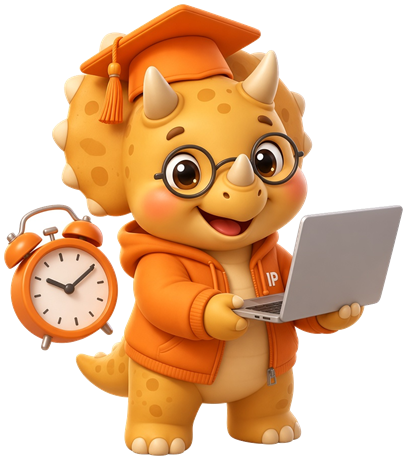
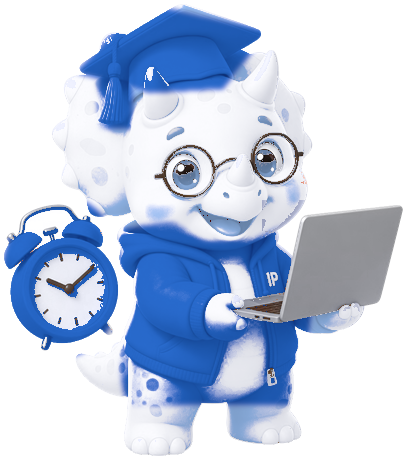
fix: mascot

diff --git a/src/styles/class.css b/src/styles/class.css
@@ -38,6 +38,7 @@
   background: var(--cls-850);
   border-bottom: 0;
   box-shadow: none;
+  -webkit-backdrop-filter: none;
   backdrop-filter: none;
 }
 
@@ -163,6 +164,7 @@
   height: 72%;
   background-image: radial-gradient(circle, rgba(255, 255, 255, 0.55) 1px, transparent 1.6px);
   background-size: 16px 16px;
+  -webkit-mask-image: radial-gradient(ellipse 55% 55% at 45% 45%, #000 20%, transparent 75%);
   mask-image: radial-gradient(ellipse 55% 55% at 45% 45%, #000 20%, transparent 75%);
   opacity: 0.55;
   pointer-events: none;
@@ -198,7 +200,7 @@
   width: auto;
   height: 100%;
   margin-inline: auto;
-  filter: drop-shadow(0 14px 22px rgba(60, 20, 0, 0.35));
+  filter: drop-shadow(0 14px 24px rgba(10, 40, 120, 0.35));
   animation: cls-float 5s ease-in-out infinite;
 }
 
@@ -210,8 +212,10 @@
   bottom: 38px;
   height: 64px;
   border-radius: 50%;
-  border: 5px solid rgba(255, 236, 214, 0.9);
-  box-shadow: 0 0 18px rgba(255, 190, 120, 0.75), inset 0 0 12px rgba(255, 190, 120, 0.6);
+  border: 5px solid rgba(226, 238, 255, 0.92);
+  box-shadow:
+    0 0 20px rgba(80, 150, 240, 0.55),
+    inset 0 0 14px rgba(127, 178, 232, 0.5);
   transform: rotate(-12deg);
 }
 
@@ -381,7 +385,7 @@
 }
 
 .cls-course__dates div::before {
-  content: "→";
+  content: "â";
   color: var(--cls-ink-soft);
   margin-right: 2px;
 }
@@ -2018,7 +2022,7 @@
 .cls-luyen-hero__mascot img {
   width: 160px;
   height: auto;
-  filter: drop-shadow(0 12px 20px rgba(0, 0, 0, 0.25));
+  filter: drop-shadow(0 12px 22px rgba(10, 40, 120, 0.3));
 }
 
 .cls-luyen-hero h1 {
@@ -2177,7 +2181,7 @@
   }
 }
 
-/* �� LMS overlays & detail polish �� */
+/* ï¿½ï¿½ LMS overlays & detail polish ï¿½ï¿½ */
 .lms-overlay {
   position: fixed;
   inset: 0;
@@ -2641,8 +2645,8 @@
   gap: 0.45rem;
   padding: 1.5rem;
   border-radius: 18px;
-  backface-visibility: hidden;
   -webkit-backface-visibility: hidden;
+  backface-visibility: hidden;
   text-align: center;
   box-shadow: 0 18px 40px rgba(249, 115, 22, 0.22);
 }
@@ -2838,7 +2842,7 @@
   }
 
   .lms-slide-fs {
-    min-height: auto;
+    min-height: 0;
   }
 
   .lms-overlay__panel.is-drawer {

diff --git a/scripts/recolor_mascot_blue.py b/scripts/recolor_mascot_blue.py
@@ -1,0 +1,127 @@
+"""Recolor the orange triceratops to the Figma owl palette.
+
+Owl reference: white feathers with cool-grey shading, cobalt gown and cap
+(#286EC8 highlight, #1E5ABE mid, #0A3C8C shadow), sky-blue feather tips.
+
+The cap shares its hue with the body frill, so garments are picked with
+region masks rather than hue alone.
+"""
+from __future__ import annotations
+
+import colorsys
+from pathlib import Path
+
+from PIL import Image, ImageDraw, ImageFilter
+
+SRC = Path(r"d:\doan\frontend\src\assets\triceratops-class-mascot-orange.png")
+OUT = Path(r"d:\doan\frontend\src\assets\triceratops-class-mascot.png")
+
+H_COBALT = 0.600
+H_COBALT_DEEP = 0.610
+H_GREY = 0.640
+H_SKY = 0.585
+
+
+def clamp(x: float, lo: float = 0.0, hi: float = 1.0) -> float:
+    return lo if x < lo else hi if x > hi else x
+
+
+def smoothstep(e0: float, e1: float, x: float) -> float:
+    t = clamp((x - e0) / (e1 - e0))
+    return t * t * (3.0 - 2.0 * t)
+
+
+def lerp(a: float, b: float, t: float) -> float:
+    return a + (b - a) * t
+
+
+def build_masks(size: tuple[int, int]) -> tuple[Image.Image, Image.Image]:
+    """Return (always_garment, hoodie_zone) soft masks in L mode."""
+    always = Image.new("L", size, 0)
+    d = ImageDraw.Draw(always)
+    # Mortarboard + tassel
+    d.polygon([(76, 72), (140, 2), (268, 30), (222, 88), (150, 92)], fill=255)
+    # Alarm clock
+    d.ellipse((2, 196, 122, 356), fill=255)
+
+    # Zones where only orange pixels are garment (tassel, hoodie)
+    hoodie = Image.new("L", size, 0)
+    hd = ImageDraw.Draw(hoodie)
+    hd.rectangle((98, 40, 132, 128), fill=255)
+    hd.polygon(
+        [(118, 228), (172, 222), (205, 240), (252, 238), (292, 222), (312, 300),
+         (300, 404), (126, 404), (108, 300)],
+        fill=255,
+    )
+    blur = ImageFilter.GaussianBlur(2.5)
+    return always.filter(blur), hoodie.filter(blur)
+
+
+def main() -> None:
+    src = Image.open(SRC).convert("RGBA")
+    w, h = src.size
+    px = src.load()
+    always, hoodie = build_masks((w, h))
+    am, hm = always.load(), hoodie.load()
+    out = Image.new("RGBA", (w, h))
+    op = out.load()
+
+    for y in range(h):
+        for x in range(w):
+            r, g, b, a = px[x, y]
+            if a < 6:
+                op[x, y] = (0, 0, 0, 0)
+                continue
+            rf, gf, bf = r / 255, g / 255, b / 255
+            hh, ss, vv = colorsys.rgb_to_hsv(rf, gf, bf)
+
+            # Pink cheeks / tongue
+            if (hh < 0.035 or hh > 0.92) and 0.18 < ss < 0.62 and vv > 0.55 and (rf - gf) < 0.38:
+                op[x, y] = (r, g, b, a)
+                continue
+            # Dark brown iris and outlines
+            if vv < 0.45 and ss < 0.6:
+                op[x, y] = (r, g, b, a)
+                continue
+            # Warm greys (laptop, clock face, glasses): neutralise smoothly
+            in_screen = 262 <= x <= 406 and 200 <= y <= 298
+            in_laptop = 232 <= x <= 406 and 202 <= y <= 326
+            grey_limit = 0.70 if in_screen else 0.45 if in_laptop else 0.28
+            if ss < grey_limit:
+                rr, gg, bb = colorsys.hsv_to_rgb(H_GREY, ss * 0.25, vv)
+                op[x, y] = (int(rr * 255), int(gg * 255), int(bb * 255), a)
+                continue
+            if not (0.0 <= hh <= 0.16):
+                op[x, y] = (r, g, b, a)
+                continue
+
+            # Orange (low g/r) vs golden body (high g/r)
+            gr = gf / max(rf, 1e-3)
+            orange = 1.0 - smoothstep(0.58, 0.70, gr)
+            garment = clamp(max(am[x, y] / 255, hm[x, y] / 255 * orange))
+            # Spots are clearly more orange than shaded body; stay subtle
+            spot = (1.0 - smoothstep(0.52, 0.61, gr)) * (1.0 - garment) * smoothstep(0.62, 0.80, ss) * 0.8
+            shade = 1.0 - vv
+
+            # White body with cool-grey shading
+            bh, bs, bv = H_GREY, clamp(0.015 + shade * 0.10), clamp(0.62 + 0.38 * vv)
+            # Sky-blue spots like the owl's feather tips
+            bh = lerp(bh, H_SKY, spot)
+            bs = lerp(bs, 0.46, spot)
+            bv = lerp(bv, clamp(0.55 + 0.40 * vv), spot)
+
+            # Cobalt garments
+            ch = lerp(H_COBALT, H_COBALT_DEEP, smoothstep(0.3, 0.8, shade))
+            cs = clamp(0.80 + shade * 0.12)
+            cv = clamp(0.38 + 0.42 * vv)
+
+            nh, ns, nv = lerp(bh, ch, garment), lerp(bs, cs, garment), lerp(bv, cv, garment)
+            rr, gg, bb = colorsys.hsv_to_rgb(nh, ns, nv)
+            op[x, y] = (int(rr * 255), int(gg * 255), int(bb * 255), a)
+
+    out.save(OUT, optimize=True)
+    print(f"saved {OUT}")
+
+
+if __name__ == "__main__":
+    main()
